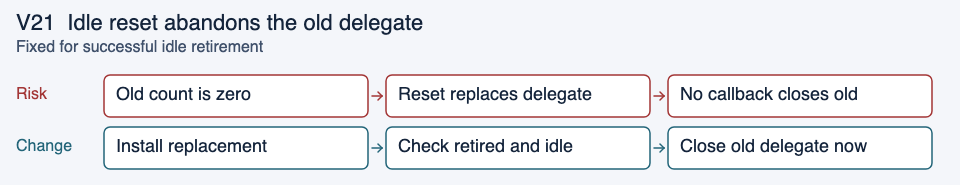
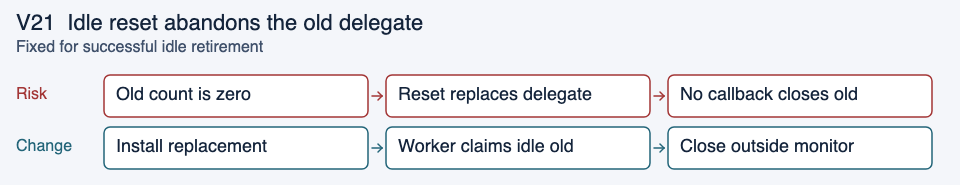
Keep retired feed transports owned through shutdown

Changed region(s): [[0.4062, 0.7297, 0.5938, 0.8378], [0.75, 0.7568, 0.9062, 0.8378]]

diff --git a/vespa-feed-client/src/test/java/ai/vespa/feed/client/impl/HttpRequestStrategyTest.java b/vespa-feed-client/src/test/java/ai/vespa/feed/client/impl/HttpRequestStrategyTest.java
@@ -485,11 +485,12 @@ class HttpRequestStrategyTest {
     @CsvSource({"true", "false"})
     void resetFailureStillClosesTheOwnedCluster(boolean creationFails) throws Exception {
         CountDownLatch ownedClosed = new CountDownLatch(1);
+        RuntimeException retirementFailure = new IllegalStateException("injected retirement failure");
         MockCluster original = new MockCluster() {
             @Override public void close() {
                 super.close();
-                if (creationFails) ownedClosed.countDown();
-                else throw new IllegalStateException("injected retirement failure");
+                ownedClosed.countDown();
+                if (!creationFails) throw retirementFailure;
             }
         };
         MockCluster replacement = new MockCluster() {
@@ -507,12 +508,146 @@ class HttpRequestStrategyTest {
                 });
         try {
             state.set(HALF_OPEN);
-            assertTrue(ownedClosed.await(10, TimeUnit.SECONDS), "reset failure must release the owned delegate");
+            assertTrue(ownedClosed.await(10, TimeUnit.SECONDS), "reset must attempt cleanup of the owned delegate");
         } finally {
-            strategy.destroy();
+            if (creationFails) strategy.destroy();
+            else assertSame(retirementFailure, assertThrows(CompletionException.class, strategy::destroy).getCause());
         }
         assertEquals(1, original.closeCalls.get());
         assertEquals(creationFails ? 0 : 1, replacement.closeCalls.get());
+    }
+
+    @ParameterizedTest
+    @CsvSource({"false, after, false, false", "true, after, false, false",
+                "false, during, false, false", "true, during, false, false", "false, never, false, false",
+                "false, after, true, false", "false, after, false, true", "false, after, true, true"})
+    void lateRetiredResponseDoesNotLoseCleanup(boolean exceptional, String completion,
+                                             boolean oldCloseFails, boolean currentCloseFails) throws Exception {
+        RuntimeException oldFailure = new IllegalStateException("old close failed");
+        RuntimeException currentFailure = new IllegalStateException("current close failed");
+        AtomicReference<CompletableFuture<HttpResponse>> pending = new AtomicReference<>();
+        Runnable respond = () -> {
+            if (exceptional) pending.get().completeExceptionally(new IOException("late transport failure"));
+            else pending.get().complete(HttpResponse.of(200, null));
+        };
+        MockCluster original = new MockCluster() {
+            @Override public void close() {
+                super.close();
+                if (completion.equals("during")) {
+                    Thread callback = new Thread(respond, "test-transport-callback");
+                    callback.start();
+                    try { callback.join(5000); }
+                    catch (InterruptedException e) { Thread.currentThread().interrupt(); throw new AssertionError(e); }
+                    assertFalse(callback.isAlive(), "transport close must not hold the callback accounting monitor");
+                }
+                if (oldCloseFails) throw oldFailure;
+            }
+        };
+        MockCluster replacement = new MockCluster() {
+            @Override public void close() {
+                super.close();
+                if (currentCloseFails) throw currentFailure;
+            }
+        };
+        CountDownLatch dispatched = new CountDownLatch(1);
+        original.expect((__, vessel) -> { pending.set(vessel); dispatched.countDown(); });
+        replacement.expect((__, vessel) -> vessel.complete(HttpResponse.of(200, null)));
+        AtomicReference<CircuitBreaker.State> state = new AtomicReference<>(CLOSED);
+        AtomicInteger created = new AtomicInteger();
+        CountDownLatch replaced = new CountDownLatch(1);
+        HttpRequestStrategy strategy = new HttpRequestStrategy(
+                new FeedClientBuilderImpl(List.of(URI.create("https://dummy.com:123")))
+                        .setCircuitBreaker(state::get),
+                () -> {
+                    if (created.getAndIncrement() == 0) return original;
+                    state.set(CLOSED);
+                    replaced.countDown();
+                    return replacement;
+                });
+        HttpRequest request = new HttpRequest("DELETE", "/", "", null, null, Duration.ofSeconds(60), () -> 0);
+        try {
+            strategy.enqueue(DocumentId.of("ns", "type", "pending"), request);
+            assertTrue(dispatched.await(10, TimeUnit.SECONDS));
+            state.set(HALF_OPEN);
+            assertTrue(replaced.await(10, TimeUnit.SECONDS));
+            strategy.enqueue(DocumentId.of("ns", "type", "replacement"), request).get(10, TimeUnit.SECONDS);
+            assertEquals(0, original.closeCalls.get(), "active retired transport stays available before shutdown");
+            // Stops accounting before the old response; one failure must not skip another close.
+            if (oldCloseFails || currentCloseFails) {
+                Throwable failure = assertThrows(CompletionException.class, strategy::destroy).getCause();
+                assertSame(oldCloseFails ? oldFailure : currentFailure, failure);
+                if (oldCloseFails && currentCloseFails) assertSame(currentFailure, failure.getSuppressed()[0]);
+            } else strategy.destroy();
+            int closesAtShutdown = original.closeCalls.get();
+            if (completion.equals("after")) respond.run();
+            if (!completion.equals("never"))
+                assertFalse(pending.get().complete(HttpResponse.of(200, null)), "duplicate completion must not repeat cleanup");
+            assertEquals(1, closesAtShutdown, "shutdown must release the retired transport without needing a late callback");
+            assertEquals(1, original.closeCalls.get(), "late completion must not close the transport twice");
+            assertEquals(1, replacement.closeCalls.get());
+        } finally {
+            if (oldCloseFails || currentCloseFails) assertThrows(CompletionException.class, strategy::destroy);
+            else strategy.destroy();
+        }
+    }
+
+    @ParameterizedTest
+    @CsvSource({"false, false", "true, false", "true, true"})
+    void shutdownWaitsForClaimedRetirement(boolean fails, boolean currentFails) throws Exception {
+        CountDownLatch retiring = new CountDownLatch(1);
+        CountDownLatch release = new CountDownLatch(1);
+        CountDownLatch replacementClosed = new CountDownLatch(1);
+        RuntimeException injected = new IllegalStateException("retirement failed");
+        RuntimeException currentFailure = new IllegalStateException("current close failed");
+        MockCluster original = new MockCluster() {
+            @Override public void close() {
+                super.close();
+                retiring.countDown();
+                awaitLatch(release);
+                if (fails) throw injected;
+            }
+        };
+        MockCluster replacement = new MockCluster() {
+            @Override public void close() {
+                super.close(); replacementClosed.countDown();
+                if (currentFails) throw currentFailure;
+            }
+        };
+        AtomicReference<CircuitBreaker.State> state = new AtomicReference<>(CLOSED);
+        AtomicInteger created = new AtomicInteger();
+        HttpRequestStrategy strategy = new HttpRequestStrategy(
+                new FeedClientBuilderImpl(List.of(URI.create("https://dummy.com:123"))).setCircuitBreaker(state::get),
+                () -> {
+                    if (created.getAndIncrement() == 0) return original;
+                    state.set(CLOSED);
+                    return replacement;
+                });
+        var cleanup = Executors.newSingleThreadExecutor();
+        try {
+            state.set(HALF_OPEN);
+            assertTrue(retiring.await(10, TimeUnit.SECONDS));
+            var outcome = cleanup.submit(strategy::destroy);
+            assertTrue(replacementClosed.await(5, TimeUnit.SECONDS), "blocked retirement must not hold the ownership monitor");
+            assertThrows(TimeoutException.class, () -> outcome.get(100, TimeUnit.MILLISECONDS));
+            release.countDown();
+            if (fails) {
+                Throwable failure = assertThrows(ExecutionException.class,
+                        () -> outcome.get(10, TimeUnit.SECONDS)).getCause().getCause();
+                assertSame(currentFails ? currentFailure : injected, failure);
+                if (currentFails) {
+                    assertEquals(1, failure.getSuppressed().length);
+                    assertSame(injected, failure.getSuppressed()[0]);
+                }
+                assertSame(failure, assertThrows(CompletionException.class, strategy::destroy).getCause());
+            } else outcome.get(10, TimeUnit.SECONDS);
+            assertEquals(1, original.closeCalls.get());
+            assertEquals(1, replacement.closeCalls.get());
+        } finally {
+            release.countDown();
+            cleanup.shutdown();
+            assertTrue(cleanup.awaitTermination(10, TimeUnit.SECONDS));
+            try { strategy.destroy(); } catch (CompletionException expected) { assertTrue(fails); }
+        }
     }
 
     @Test

diff --git a/vespa-feed-client/src/main/java/ai/vespa/feed/client/impl/HttpRequestStrategy.java b/vespa-feed-client/src/main/java/ai/vespa/feed/client/impl/HttpRequestStrategy.java
@@ -12,6 +12,11 @@ import ai.vespa.feed.client.impl.HttpFeedClient.ClusterFactory;
 
 import java.io.IOException;
 import java.time.Duration;
+import java.util.ArrayList;
+import java.util.Collections;
+import java.util.IdentityHashMap;
+import java.util.List;
+import java.util.Set;
 import java.util.Locale;
 import java.util.Map;
 import java.util.Queue;
@@ -406,6 +411,9 @@ class HttpRequestStrategy implements RequestStrategy {
         private final ExecutorService executor = Executors.newSingleThreadExecutor();
         private AtomicLong inflight = new AtomicLong(0);
         private Cluster delegate;
+        private final Set<Cluster> retired = Collections.newSetFromMap(new IdentityHashMap<>());
+        private boolean closed;
+        private Throwable retirementFailure;
 
         ResettableCluster(ClusterFactory clusterFactory, Duration terminationTimeout) throws IOException {
             this.terminationTimeout = terminationTimeout;
@@ -416,30 +424,45 @@ class HttpRequestStrategy implements RequestStrategy {
         @Override
         public void dispatch(HttpRequest request, CompletableFuture<HttpResponse> vessel) {
             synchronized (monitor) {
+                if (closed) {
+                    vessel.completeExceptionally(new FeedException("Cluster is closed"));
+                    return;
+                }
                 AtomicLong usedCounter = inflight;
                 usedCounter.incrementAndGet();
                 Cluster usedCluster = delegate;
                 usedCluster.dispatch(request, vessel);
-                vessel.whenCompleteAsync((__, ___) -> {
-                                             synchronized (monitor) {
-                                                 closeRetiredIfIdle(usedCluster, usedCounter.decrementAndGet());
-                                             }
-                                         },
-                                         executor);
+                vessel.whenComplete((__, ___) -> {
+                    synchronized (monitor) {
+                        // After shutdown, accounting must not depend on a stopped executor.
+                        if (closed) usedCounter.decrementAndGet();
+                        else executor.execute(() -> retireIfIdle(usedCluster, usedCounter, true));
+                    }
+                });
             }
         }
 
         @Override
         public void close() {
             Throwable failure = null;
+            List<Cluster> toClose;
             synchronized (monitor) {
-                try { delegate.close(); }
-                catch (Throwable t) { failure = t; }
+                closed = true;
+                toClose = new ArrayList<>(retired);
+                retired.clear();
+                toClose.add(delegate);
                 try { executor.shutdown(); }
+                catch (Throwable t) { failure = t; }
+            }
+            // Transport close may await callbacks. Never hold their accounting monitor here.
+            for (Cluster cluster : toClose) {
+                try { cluster.close(); }
                 catch (Throwable t) { failure = retainFailure(failure, t); }
             }
-            // Accounting tasks take monitor; wait only after releasing it.
             failure = awaitTermination(executor, terminationTimeout, "reset accounting", failure);
+            synchronized (monitor) {
+                if (retirementFailure != null) failure = retainFailure(failure, retirementFailure);
+            }
             if (failure instanceof RuntimeException) throw (RuntimeException) failure;
             if (failure instanceof Error) throw (Error) failure;
             if (failure != null) throw new FeedException("Reset accounting cleanup failed", failure);
@@ -466,22 +489,32 @@ class HttpRequestStrategy implements RequestStrategy {
 
         @Override public void resetStats() { delegate.resetStats(); }
 
-        // Both reset and completion accounting hold monitor while deciding retirement.
-        private void closeRetiredIfIdle(Cluster cluster, long remaining) {
-            if (remaining == 0 && cluster != delegate) {
+        private void retireIfIdle(Cluster cluster, AtomicLong counter, boolean completed) {
+            synchronized (monitor) {
+                long remaining = completed ? counter.decrementAndGet() : counter.get();
+                if (remaining != 0 || cluster == delegate || !retired.remove(cluster)) return;
+            }
+            try {
                 log.log(INFO, "Closing old HTTP client");
                 cluster.close();
+            } catch (Throwable t) {
+                synchronized (monitor) { retirementFailure = retainFailure(retirementFailure, t); }
             }
         }
 
         void reset() throws IOException {
             synchronized (monitor) {
+                if (closed) return;
                 log.log(INFO, "Replacing underlying HTTP client to attempt recovery");
                 Cluster previous = delegate;
                 AtomicLong previousInflight = inflight;
                 delegate = clusterFactory.create();
                 inflight = new AtomicLong(0);
-                closeRetiredIfIdle(previous, previousInflight.get());
+                retired.remove(delegate);
+                if (previous != delegate) {
+                    retired.add(previous);
+                    executor.execute(() -> retireIfIdle(previous, previousInflight, false));
+                }
             }
         }
 

diff --git a/vespa-feed-client/doc/shutdown.md b/vespa-feed-client/doc/shutdown.md
@@ -35,7 +35,7 @@ These checks support the current changes and clarify their limits; they did not 
 
 Snippets are shortened Java excerpts or API examples. Comments omit surrounding code; they are not standalone programs. Each case links to the test source and names the relevant methods. Latches and controlled dependencies force the important ordering. Timeouts bound waits and detect hangs; timing-sensitive checks still need reruns on the maintainer’s environment.
 
-After the review fixes and idle-retirement change, a clean affected API/client/CLI reactor passed all 65 tests on JDK 17, including the normal install-phase ABI and packaging checks. The archive timestamp was set explicitly to a valid reproducible value. The test refactor uses JUnit parameterization for both progress-thread contexts, bounded future completion for callback assertions and shared latch/clock fixtures. The public API additions are recorded in the ABI specification.
+After the review fixes and retired-transport ownership change, a clean affected API/client/CLI reactor passed all 76 tests on JDK 17, including the normal install-phase ABI and packaging checks. The archive timestamp was set explicitly to a valid reproducible value. The test refactor uses JUnit parameterization for both progress-thread contexts, bounded future completion for callback assertions and shared latch/clock fixtures. The public API additions are recorded in the ABI specification.
 
 The generated lifecycle test uses 64 fixed seeds with 100 commands each and prints the history on failure. Earlier mutation checks caught dropped internal-resolution ownership and abort reverting to graceful drain. These are component results; full Vespa integration and impact measurements remain outstanding.
 
@@ -43,9 +43,13 @@ Four new regression cases first failed against the old behavior: worker creation
 
 ## Failure-mode table
 
-Additional controlled JDK runs recorded 52 observations: thirteen scenarios on JDK 21 and JDK 26, each in mixed and interpreted mode. Three scenarios distinguish timeout with a held worker, interruption with the flag restored, and successful termination. All observations matched their expected endpoints. These runs support the JDK wait contract; they do not replace the 65 Java component tests or real transport validation. Run identifiers, parameters, runtime versions, logs and rendered plots are retained in the separate evaluated notebooks.
+Additional controlled JDK runs recorded 52 observations: thirteen scenarios on JDK 21 and JDK 26, each in mixed and interpreted mode. Three scenarios distinguish timeout with a held worker, interruption with the flag restored, and successful termination. All observations matched their expected endpoints. These runs support the JDK wait contract; they do not replace the 76 Java component tests or real transport validation. Run identifiers, parameters, runtime versions, logs and rendered plots are retained in the separate evaluated notebooks.
 
-Idle reset now uses the same retirement condition as response completion. Two regression cases first observed zero closes instead of one. The expanded controls cover fresh and previously used idle delegates, same-instance replacement, creation failure, throwing retirement and active requests. The source experiment compares unchanged before/after inputs using real file channels and the same release checks; late callback rejection remains a separate defect.
+Idle reset now uses the same retirement condition as response completion. Two regression cases first observed zero closes instead of one. The expanded controls cover fresh and previously used idle delegates, same-instance replacement, creation failure, throwing retirement and active requests. The source experiment compares unchanged before/after inputs using real file channels and the same release checks; the new ownership comparison checks late response cleanup separately. Shutdown now closes retired delegates even when responses never arrive, and late callbacks only finish accounting.
+
+The late-response regression was first reproduced on the idle-retirement baseline. Expanded baseline checks exposed eight failures. The changed version covers completion during close, no response, repeated completion, blocked retirement and combined close failures. Additional exact-source checks cover three active generations and attempts to reset or dispatch after close.
+
+The new before/after source run recorded 24 expected observations on JDK 21/26 in mixed/interpreted modes. Late old channels open changed from 4/4 to 0/4; idle and active controls stayed closed. Four additional changed-version ownership runs passed, while all four baseline runs reproduced retained resources. These controlled file-channel checks do not establish real HTTP transport behavior or production failure rates.
 
 | Case | Failure mode | Status |
 | --- | --- | --- |
@@ -70,6 +74,7 @@ Idle reset now uses the same retirement condition as response completion. Two re
 | [V19](#v19) | Every completion scans the whole backlog | Fixed; impact measurements pending |
 | [V20](#v20) | A test checks before cleanup has run | Test ordering corrected |
 | [V21](#v21) | Idle reset abandons the old delegate | Fixed for successful idle retirement |
+| [V22](#v22) | Late responses lose retired transport cleanup | Fixed with shutdown ownership |
 
 <a id="v01"></a>
 
@@ -267,10 +272,9 @@ Reset-accounting tasks need the same monitor that close previously held while aw
 Release the monitor before waiting for executor termination. Existing reset and shutdown tests exercise the surrounding path; this case still needs a dedicated ordered regression.
 
 ```java
-synchronized (monitor) {
-    try { delegate.close(); }
-    catch (Throwable t) { failure = t; }
-    try { executor.shutdown(); }
+// Ownership is claimed under the monitor; transport closes run outside it.
+for (Cluster cluster : toClose) {
+    try { cluster.close(); }
     catch (Throwable t) { failure = retainFailure(failure, t); }
 }
 failure = awaitTermination(executor, terminationTimeout, "reset accounting", failure);
@@ -457,31 +461,60 @@ Evidence: [HttpFeedClientShutdownTest](../../vespa-feed-client/src/test/java/ai/
 
 Reset replaced the delegate and its in-flight counter, but only a later response callback closed the old delegate. When the old count was already zero, no callback remained to release it.
 
-Keep the previous delegate and counter until replacement creation succeeds. Publish the replacement and its counter, then use the same retirement check as response completion: close only a distinct retired delegate whose count is zero. Active requests retain their old delegate until the final response. Tests cover unused and fully drained delegates, same-instance factories, creation failure and retirement failure. Exactly-once call counts do not guarantee release when close throws.
+Keep the previous delegate and counter until replacement creation succeeds. Track the retired delegate and schedule the idle check on the existing accounting worker. That worker claims cleanup under the monitor and closes outside it. Active requests retain their old delegate until the final response or shutdown. Same-instance controls cover idle reuse only; arbitrary reuse of old transport identities is not supported. A close attempt is not a guarantee of physical release when close throws.
 
 ```java
 Cluster previous = delegate;
 AtomicLong previousInflight = inflight;
 delegate = clusterFactory.create();
 inflight = new AtomicLong(0);
-closeRetiredIfIdle(previous, previousInflight.get());
+retired.remove(delegate);
+if (previous != delegate) {
+    retired.add(previous);
+    executor.execute(() -> retireIfIdle(previous, previousInflight, false));
+}
 ```
 
-![Idle reset abandons the old delegate: Old count is zero → Reset replaces delegate → No callback closes old; Install replacement → Check retired and idle → Close old delegate now](shutdown-diagrams/images/V21.png)
+![Idle reset abandons the old delegate: Old count is zero → Reset replaces delegate → No callback closes old; Install replacement → Worker claims idle old → Close outside monitor](shutdown-diagrams/images/V21.png)
 
-Evidence: [HttpRequestStrategyTest](../../vespa-feed-client/src/test/java/ai/vespa/feed/client/impl/HttpRequestStrategyTest.java): `idleResetClosesRetiredClusterExactlyOnce` (four parameter combinations), `resetFailureStillClosesTheOwnedCluster` (two injected failures), and strengthened `testResettingCluster` active-request controls. Both initial idle-regression cases failed before the change; the final reactor passed 65 tests.
+Evidence: [HttpRequestStrategyTest](../../vespa-feed-client/src/test/java/ai/vespa/feed/client/impl/HttpRequestStrategyTest.java): `idleResetClosesRetiredClusterExactlyOnce` (four parameter combinations), `resetFailureStillClosesTheOwnedCluster` (two injected failures), and strengthened `testResettingCluster` active-request controls. Both initial idle-regression cases failed before the change.
+
+<a id="v22"></a>
+
+## V22: Late responses lose retired transport cleanup
+
+Shutdown stopped the accounting executor while an old transport still had a pending response. Its eventual callback was rejected, so the old transport was never closed. A response that never arrived had the same resource problem.
+
+Keep retired transports owned until a worker or shutdown claims their close. Shutdown claims all remaining transports under the monitor, then closes them outside it and waits for already-running retirement. Late responses only decrement accounting: they never stop a transport on its own callback thread. Attempt every claimed close and retain failures for shutdown callers. Reset and dispatch cannot create or use another transport after the close gate.
+
+```java
+synchronized (monitor) {
+    closed = true;
+    toClose = new ArrayList<>(retired);
+    retired.clear();
+    toClose.add(delegate);
+    try { executor.shutdown(); }
+    catch (Throwable t) { failure = t; }
+}
+// Close every claimed transport outside the monitor;
+// retain failures, then wait for the accounting worker.
+```
+
+![Late responses lose retired transport cleanup: Stop accounting worker → Old response arrives late → Retired transport leaks; Shutdown claims ownership → Close outside monitor → Late response only accounts](shutdown-diagrams/images/V22.png)
+
+Evidence: `lateRetiredResponseDoesNotLoseCleanup` covers success, exception, completion during close, no response, duplicate completion and injected close failures. `shutdownWaitsForClaimedRetirement` holds an already-claimed close and checks waiting plus combined failures. The exact-source experiment also checks three active generations, two throwing closes and reset/dispatch after shutdown using real file channels.
 
 ## What this branch does not finish
 
 | Open item | Why it matters | Next check |
 | --- | --- | --- |
-| Retired-delegate close fails | The existing dispatcher policy logs the error and cleans up the replacement; old-resource release is not guaranteed | Retain retirement failures in the shared outcome and test partial release |
-| Late completion after callback-executor shutdown | Rejected accounting can leave old resources open | Test an ordered late completion with real transport cleanup |
+| A close throws or never returns | Failure is retained, but an attempt cannot guarantee physical release; a blocked transport close can still stall cleanup | Validate partial release and bounded diagnostics with real transport |
+| Retirement fails after a timed-out or interrupted executor wait | A later failure may occur after the shared outcome has already been reported | Preserve the wait failure and investigate separate late-failure diagnostics |
 | Atomic registry, capacity and queue handoffs | Abort checks and subsequent actions are separate | Force abort between check and action, including same-ID successors |
 | Independent stall diagnostics | Early stalls can occur before any executor wait | Add bounded diagnostics with controlled time and a blocked logging handler |
 | Delegate visibility and wider cleanup combinations | Source inspection leaves concurrency and resource questions | Check stats/reset callers, rejection, partial close and multiple failures |
 
-Earlier source experiments reproduced idle-reset and late-callback resource failures. This branch now fixes successful idle retirement; late-callback rejection remains open. Retirement still invokes close under the existing monitor, on the dispatcher for idle reset; a slow close can delay dispatch. The full Jetty integration environment is unavailable here, and GitHub Actions is blocked by billing. A Vespa maintainer needs to run the before/after cases with the real transport and check worker, socket and file retention.
+Earlier source experiments reproduced idle-reset and late-callback resource failures. This branch now closes owned retired transports at shutdown and preserves late accounting without running transport cleanup on callback threads. Normal retirement and shutdown close outside the accounting monitor. Tests establish behavior for factories that create fresh transports; idle same-instance controls do not establish arbitrary identity-reuse safety. The full Jetty integration environment is unavailable here, and GitHub Actions is blocked by billing. A Vespa maintainer needs to run these cases with the real transport and check worker, socket and file retention.
 
 Performance measurements remain deferred. The agreed comparison uses distinct-ID and same-ID workloads at low and saturated load, reporting throughput, submission/shutdown latency, allocation and retained resources. A repeatable throughput or p95 submission-latency regression above 5% needs review. No performance acceptance is claimed.
 
